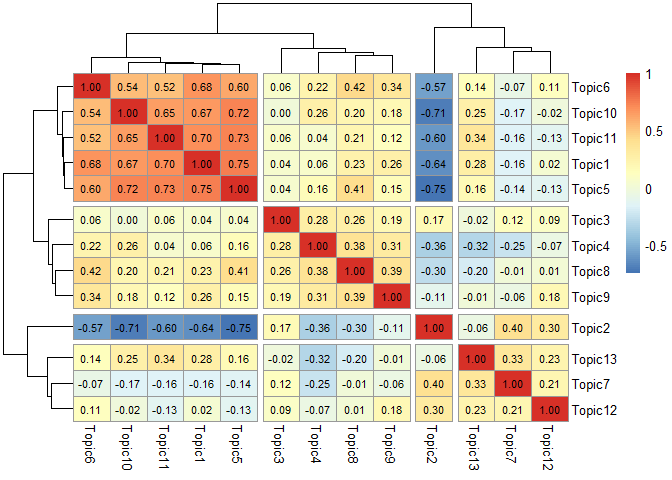
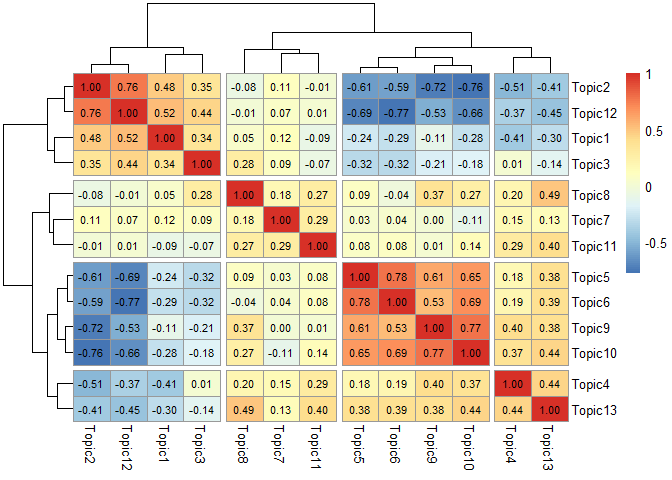
수정

diff --git a/_posts/2022-02-11-kakaotalk-topic-analysis8.md b/_posts/2022-02-11-kakaotalk-topic-analysis8.md
@@ -74,7 +74,54 @@ stm_topics <- stm(stm_out$documents, stm_out$vocab, K=k, prevalence=~group+s(dat
 stm_removed <- setdiff(c(1:nrow(data)), stm_topics$mu$mu %>% as.data.frame() %>% names() %>% as.numeric())
 ```
 
-데이터 전처리, 토픽분석 과정입니다. 이전 글에서 설명한 내용 그대로입니다. 이전 포스트에서 topicCorr() 함수로 상관계수를 구하고 pheatmap() 함수로 군집분석했었습니다. 이 때 구한 상관계수는 모수 분석인 pearson 상관계수입니다. 하지만 토픽이 13개나 되기 때문에 어떤 글이 특정 토픽이 될 가능성은 매우 낮습니다. 결국 토픽발현 확률을 보면 정규분포를 그리지 않습니다. 이런 경우 비모수 분석인 spearman 방식으로 상관계수를 구해야 합니다. 그럼 어떻게 비모수 상관계수를 구할 수 있을까요?
+데이터 전처리, 토픽분석 과정입니다. 이전 글에서 설명한 내용
+그대로입니다. 
+[이전 포스트](https://cysics.github.io/텍스트%20마이닝/토픽%20분석/kakaotalk-topic-analysis3/){:target="_blank"}
+에서 topicCorr() 함수로 상관계수를 구하고 pheatmap() 함수로
+군집분석했었습니다. 그 결과는 다음과 같습니다.
+
+![](https://raw.githubusercontent.com/cysics/cysics.github.io/master/_posts/2022-02-06-kakaotalk-topic-analysis3_files/figure-gfm/stm_cor2-1.png){:style="display:block; margin-left:auto; margin-right:auto"}
+
+이와 동일한 작업을 조금 다르게 표현하여 동일한 결과를 얻어낼 수
+있습니다.
+
+### 상관계수를 이용한 군집분석
+
+``` r
+make.dt(stm_topics, meta=stm_out$meta) %>% 
+    select(grep("Topic", names(.))) %>% 
+    cor() %>% 
+    pheatmap(display_numbers=T, number_color="black", 
+             cutree_rows=4, cutree_cols=4)
+```
+
+![](https://raw.githubusercontent.com/cysics/cysics.github.io/master/_posts/2022-02-11-kakaotalk-topic-analysis8_files/figure-gfm/stm_analysis1-1.png){:style="display:block; margin-left:auto; margin-right:auto"}
+
+make.dt() 함수는 토픽모델 만들 때 제거된 행을 제외한 나머지에 대한 토픽
+발현 확률과 data의 다양한 정보를 합쳐 놓은 형태의 데이터를 만들어
+줍니다. 그 중에 select() 함수와 grep() 함수를 이용하여 “Topic”이 들어간
+열만 선택합니다. 그리고 cor() 함수로 상관계수를 구하고 pheatmap() 함수로
+군집분석을 실시하면 위와 같은 결과를 얻을 수 있습니다.
+
+그런데 토픽이 13개나 되기 때문에 어떤 글이 특정 토픽이 될 가능성이 매우
+낮은 것이 일반적일 수밖에 없다. 결국 토픽발현 확률을 보면 정규분포를
+그리지 않습니다.
+
+### 상관계수 및 도수 분포표 보기
+
+``` r
+make.dt(stm_topics, meta=stm_out$meta) %>% 
+    select(grep("Topic", names(.))) %>% 
+    chart.Correlation()
+```
+
+![](https://raw.githubusercontent.com/cysics/cysics.github.io/master/_posts/2022-02-11-kakaotalk-topic-analysis8_files/figure-gfm/stm_analysis2-1.png){:style="display:block; margin-left:auto; margin-right:auto"}
+
+도수 분포표를 보면 왼쪽으로 매우 많이 치우진 형태를 보입니다. 따라서
+pearson 상관계수를 구하기 보다는 spearman 상관계수를 구하는 것이 더
+타당합니다. topicCorr() 함수에서는 spearman 상관계수를 출력할 수
+없었는데 make.dt() 함수로 토픽 발현 확률을 끄집어 내면 얼마든지 spearman
+상관계수를 구할 수 있습니다.
 
 ### spearman 상관계수로 군집화하기
 
@@ -88,9 +135,12 @@ make.dt(stm_topics, meta=stm_out$meta) %>%
 
 ![](https://raw.githubusercontent.com/cysics/cysics.github.io/master/_posts/2022-02-11-kakaotalk-topic-analysis8_files/figure-gfm/stm_analysis3-1.png){:style="display:block; margin-left:auto; margin-right:auto"}
 
-make.dt() 함수를 이용하면 토픽발현확률과 함께 원본 데이터(data)를 합친 data.frame을 얻을 수 있습니다. 토픽분석할 때 단어 수가 너무 적어서 자동으로 제외된 데이터는 표현되지 않습니다. 이렇게 뽑아낸 데이터를 이용하면 토픽간의 상관관계는 물론 다른 변수와의 상관관계, 회귀분석 등에 사용할 수 있습니다. 여기서는 select() 함수와 grep() 함수를 이용하여 Topic이라는 글자가 포함된 토픽 발현 확률만 뽑아내었습니다. 
+pearson 상관계수로 군집분석한 결과와 아주 조금 차이가 있습니다. 토픽 두
+어개의 군집이 바뀌었습니다. 그 이외에도 토픽간 상관계수가 더 커진 것을
+알 수 있습니다. 비슷한 토픽들끼리 더 잘 묶여진 것을 확인할 수 있습니다.
 
-pearson 상관계수로 군집분석한 결과와 같게 군집화된 것도 있지만 그렇지 않은 것도 있습니다. spearman 상관계수는 cor() 함수에 method를 spearman으로 입력하면 구할 수 있습니다.
+spearman 상관계수는 cor() 함수에 method를 spearman으로 입력하면 구할 수
+있습니다.
 
 위와 같이 spearman 상관계수를 이용해서 군집분석한 결과를 반영하여 비슷한
 토픽끼리 묶어보겠습니다.
@@ -100,8 +150,8 @@ pearson 상관계수로 군집분석한 결과와 같게 군집화된 것도 있
 ``` r
 stm_data <- make.dt(stm_topics, meta=stm_out$meta) %>% 
     rename_all(~str_remove(.,"opic")) %>% as_tibble() %>% 
-    mutate(topic1=(T3+T1+T2+T12), topic2=(T9+T10+T5+T6),
-           topic3=(T11+T8+T7), topic4=(T4+T13)) %>% 
+    mutate(topic1=(T2+T12+T1+T3), topic2=(T8+T7+T11),
+           topic3=(T5+T6+T9+T10), topic4=(T4+T13)) %>% 
     group_by(date, group) %>% 
     summarise(topic1=mean(topic1), topic2=mean(topic2),
               topic3=mean(topic3), topic4=mean(topic4)) %>% 
@@ -130,29 +180,29 @@ group별로 정렬합니다. 그러면 Others끼리 Top3끼리 묶입니다. 그
 ### 상호작용 확인하기
 
 ``` r
-summary(lm(topic2~group*date, stm_data))
+summary(lm(topic3~group*date, stm_data))
 ```
 
     ## 
     ## Call:
-    ## lm(formula = topic2 ~ group * date, data = stm_data)
+    ## lm(formula = topic3 ~ group * date, data = stm_data)
     ## 
     ## Residuals:
     ##       Min        1Q    Median        3Q       Max 
-    ## -0.043907 -0.011209 -0.003799  0.011550  0.065380 
+    ## -0.082485 -0.025898 -0.001132  0.025950  0.089467 
     ## 
     ## Coefficients:
     ##                  Estimate Std. Error t value Pr(>|t|)    
-    ## (Intercept)    -1.586e+00  2.136e-01  -7.423 2.45e-10 ***
-    ## groupTop3      -4.115e-01  3.021e-01  -1.362    0.178    
-    ## date            9.850e-05  1.158e-05   8.507 2.64e-12 ***
-    ## groupTop3:date  2.515e-05  1.638e-05   1.536    0.129    
+    ## (Intercept)    -1.905e+00  3.414e-01  -5.580 4.54e-07 ***
+    ## groupTop3      -8.006e-01  4.828e-01  -1.658   0.1019    
+    ## date            1.191e-04  1.851e-05   6.437 1.44e-08 ***
+    ## groupTop3:date  4.642e-05  2.617e-05   1.774   0.0806 .  
     ## ---
     ## Signif. codes:  0 '***' 0.001 '**' 0.01 '*' 0.05 '.' 0.1 ' ' 1
     ## 
-    ## Residual standard error: 0.02132 on 68 degrees of freedom
-    ## Multiple R-squared:  0.8128, Adjusted R-squared:  0.8045 
-    ## F-statistic: 98.41 on 3 and 68 DF,  p-value: < 2.2e-16
+    ## Residual standard error: 0.03408 on 68 degrees of freedom
+    ## Multiple R-squared:  0.7137, Adjusted R-squared:  0.701 
+    ## F-statistic: 56.49 on 3 and 68 DF,  p-value: < 2.2e-16
 
 상호작용 효과가 통계적으로 유의한지 살펴보았는데 0.05보다 크게
 나왔습니다. 95% 신뢰수준에서는 통계적으로 유의하지 않지만 90%
@@ -163,12 +213,12 @@ summary(lm(topic2~group*date, stm_data))
 
 ``` r
 stm_data %>% 
-    ggplot(aes(date, topic2, group=group, color=group)) +
+    ggplot(aes(date, topic3, group=group, color=group)) +
     geom_point() +
     geom_smooth(method="lm") +
     scale_x_date(date_breaks = "6 month", date_labels = "%Y-%m") +
     theme_bw() +
-    theme(legend.position=c(0.85, 0.85)) +
+    theme(legend.position=c(0.2, 0.85)) +
     scale_color_manual(values=c("tomato", "royalblue")) +
     labs(x="time", y="Expected Topic Proportion", title="토픽9 그룹에 대한 상호작용 효과")
 ```
@@ -184,12 +234,12 @@ lm으로 입력하면 선형회귀분석 결과를 시각화합니다. 평활법
 
 ``` r
 stm_data %>% 
-    ggplot(aes(date, topic2, group=group, color=group)) +
+    ggplot(aes(date, topic3, group=group, color=group)) +
     geom_point() +
     geom_smooth() +
     scale_x_date(date_breaks = "6 month", date_labels = "%Y-%m") +
     theme_bw() +
-    theme(legend.position=c(0.25, 0.85)) +
+    theme(legend.position=c(0.2, 0.85)) +
     scale_color_manual(values=c("tomato", "royalblue")) +
     labs(x="time", y="Expected Topic Proportion", title="토픽9 그룹에 대한 상호작용 효과")
 ```
